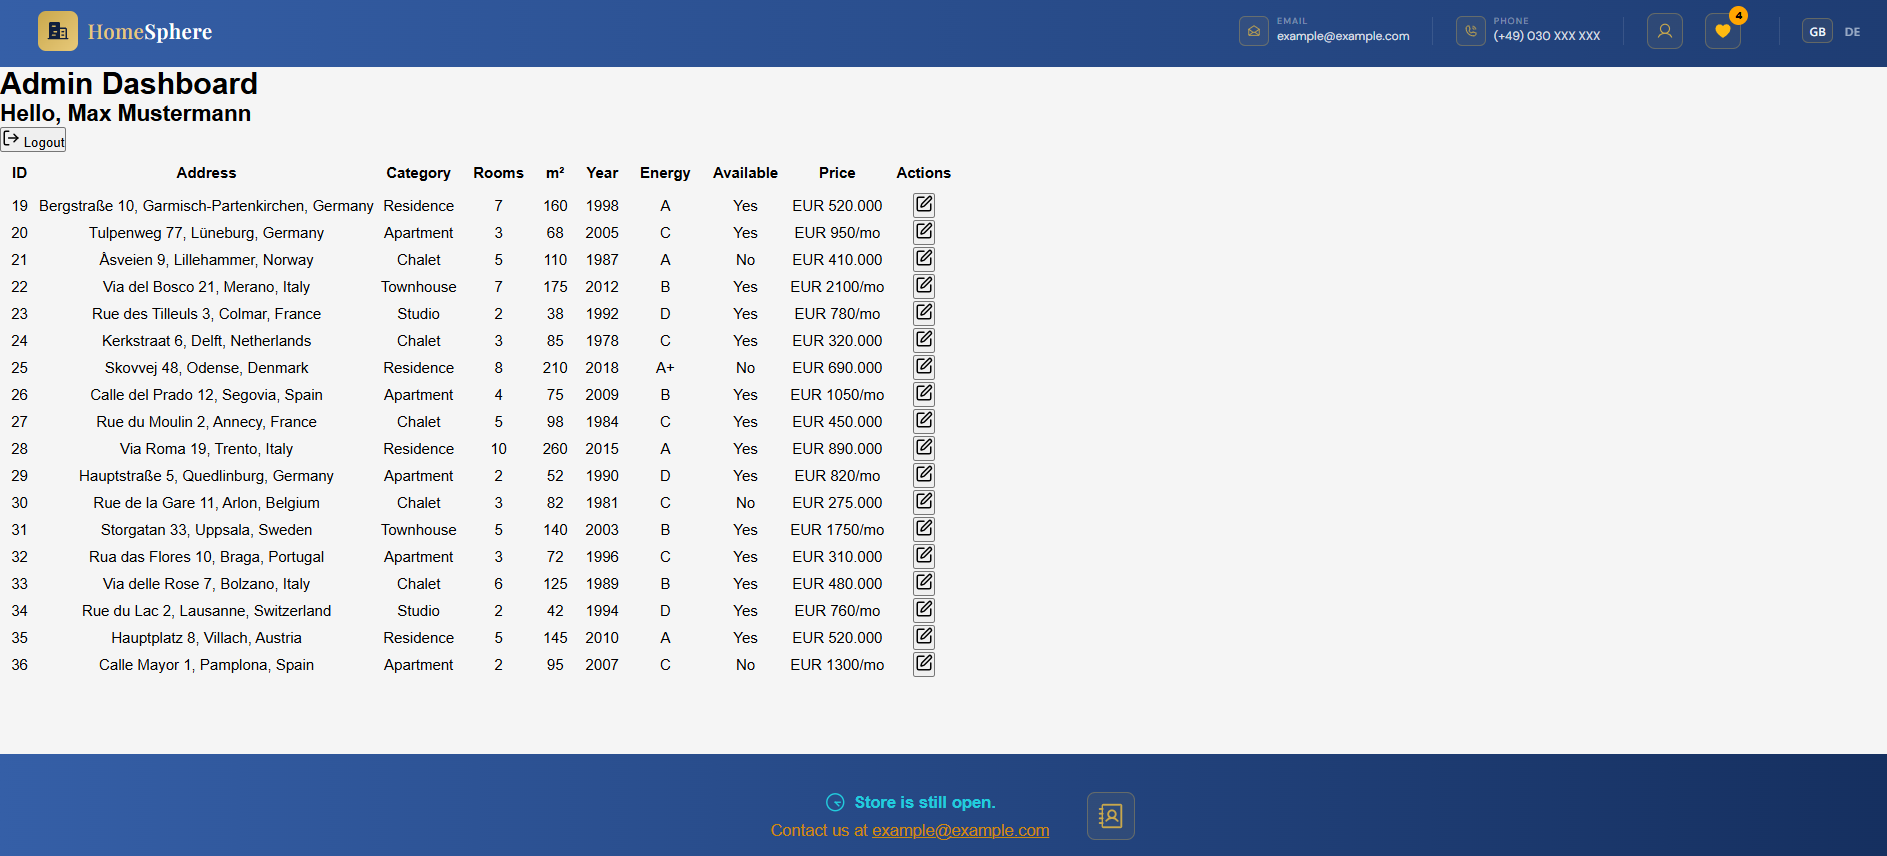
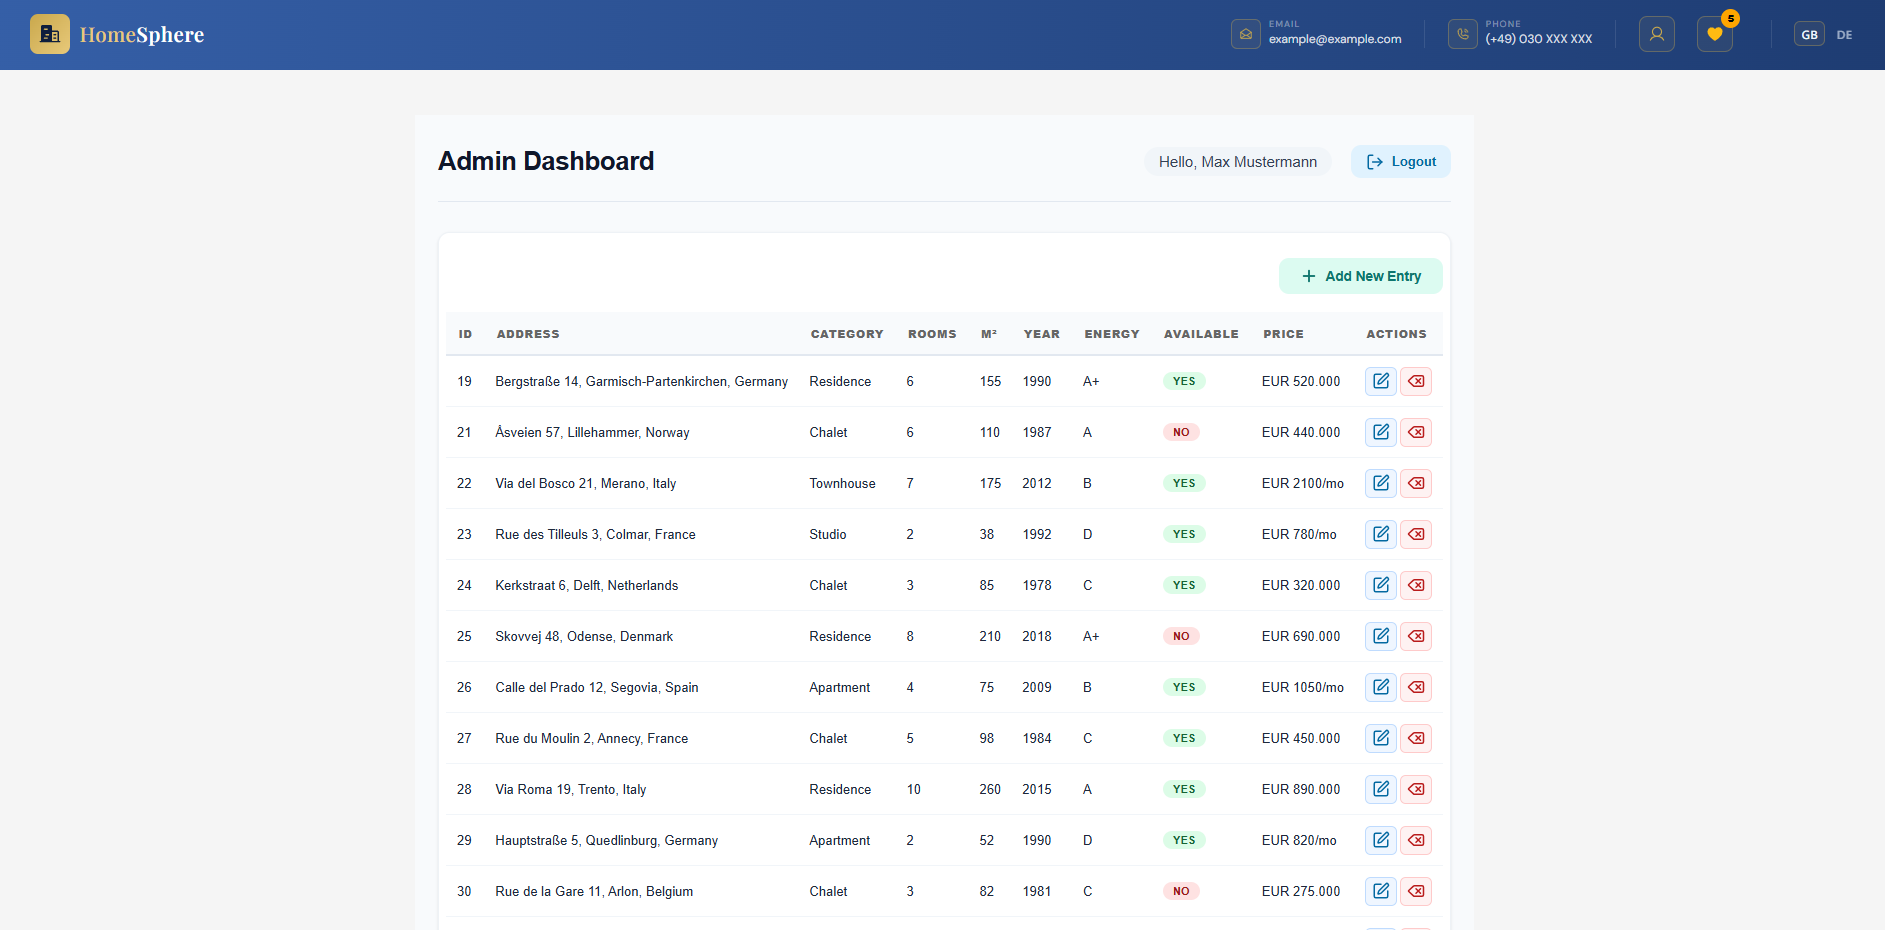
update README

diff --git a/README.md b/README.md
@@ -15,7 +15,7 @@
 
 🔗 [Live Demo](https://homesphere-web.vercel.app)
 
-HomeSphere is a full-stack real estate platform for property seekers and administrators. Browse listings across Europe, filter by category and deal type, save favorites, and contact agents via email. Admins can manage the entire property catalog through a protected dashboard.
+HomeSphere is a full-stack real estate platform for property seekers and administrators. Browse listings across Europe, filter by category and deal type, save favorites, and contact agents via email. Admins can manage the entire property catalog through a protected dashboard. An advanced search enables combined filtering across key property attributes for fast, precise results.
 
 **Tech Stack:** React frontend with a Node.js/Express REST API, PostgreSQL on Supabase, Resend for emails, and react‑i18next for multilingual support (EN/DE).
 
@@ -23,13 +23,15 @@ Built with **security**, **performance**, and **user experience** in mind – fe
 
 ## Screenshots
 
-|                                                                                  |                                                                               |
-| -------------------------------------------------------------------------------- | ----------------------------------------------------------------------------- |
-| ![Home](client/public/screenshots/home.png)<br>_Home Page_                       | ![Main](client/public/screenshots/main.png)<br>_Main Listings_                |
-| ![Footer](client/public/screenshots/footer.png)<br>_Footer_                      | ![Details](client/public/screenshots/details.png)<br>_Property Details_       |
-| ![Contact Form](client/public/screenshots/contact-form.png)<br>_Contact Form_    | ![Favorites](client/public/screenshots/favorites-page.png)<br>_Favorites_     |
-| ![Calculator](client/public/screenshots/calculator.png)<br>_Mortgage Calculator_ | ![Contact Page](client/public/screenshots/contact-page.png)<br>_Contact Page_ |
-| ![Login](client/public/screenshots/login-page.png)<br>_Login_                    | ![Admin](client/public/screenshots/admin-page.png)<br>_Admin Dashboard_       |
+|                                                                                          |                                                                                    |
+| ---------------------------------------------------------------------------------------- | ---------------------------------------------------------------------------------- |
+| ![Home](client/public/screenshots/home.png)<br>_Home Page with Advanced Filter_          | ![Main](client/public/screenshots/main.png)<br>_Main Listings_                     |
+| ![Footer](client/public/screenshots/footer.png)<br>_Footer_                              | ![Details](client/public/screenshots/details.png)<br>_Property Details_            |
+| ![Contact Form](client/public/screenshots/contact-form.png)<br>_Contact Form_            | ![Favorites](client/public/screenshots/favorites-page.png)<br>_Favorites_          |
+| ![Calculator](client/public/screenshots/calculator.png)<br>_Mortgage Calculator_         | ![Contact Page](client/public/screenshots/contact-page.png)<br>_Contact Page_      |
+| ![Login](client/public/screenshots/login-page.png)<br>_Login_                            | ![Admin](client/public/screenshots/admin-page.png)<br>_Admin Dashboard_            |
+| ![Add Entry](client/public/screenshots/add-new-entry-modal.png)<br>_Add New Entry Modal_ | ![Edit Entry](client/public/screenshots/edit-entry-modal.png)<br>_Add Entry Modal_ |
+| ![Delete Entry](client/public/screenshots/delete-entry-modal.png)<br>_Delete Entry_      |                                                                                    |
 
 ---
 
@@ -55,17 +57,22 @@ Built with **security**, **performance**, and **user experience** in mind – fe
 - Property listings fetched from PostgreSQL database via REST API
 - Filter by category (Apartment, Chalet, Residence, Studio, Townhouse)
 - Filter by deal type (Rent / Buy)
+- Advanced Search with multi‑criteria filtering for precise property discovery
 - Detail page with full property info, stats, and interactive map
 - Mortgage calculator on property detail pages
 - Photo upload directly in the admin dashboard, stored in Supabase Storage
+- Pagination for property listings
+- Confirmation modal before deleting a property
 
 ### Authentication & Security
 
 - **Supabase Authentication** with JWT-based session management
 - **Protected admin routes** with token validation middleware
 - **Server-side token verification** using Supabase Admin Client
+- **Server-side request validation** with Zod schemas (entries, contact form, and `:id` route params) — invalid requests return 400 with field-level error details
+- **Security headers** via Helmet
 - Environment-based configuration for dev/prod
-- Rate limiting on contact endpoint (3 requests per 10 minutes)
+- Rate limiting on contact endpoint (3 requests per 10 minutes) and admin endpoints (100 requests per 15 minutes)
 
 ### User Experience & User Interface (UX/UI)
 
@@ -75,10 +82,14 @@ Built with **security**, **performance**, and **user experience** in mind – fe
 - Loading and error states for all API calls
 - Multi-language support (EN/DE) with react-i18next
 - Favorites system with localStorage persistence
+- Accessibility: keyboard-navigable property cards, ARIA labels on interactive controls, visible focus states
+- Custom 404 page for unmatched routes
 
 ### Performance
 
 - Optimised images with lazy loading and WebP support
+- Uploaded photos are automatically resized (max 1200px) and re-encoded as WebP (quality 80) via Sharp before storage
+- One-off `optimize-photos.js` script to compress existing property photos in bulk
 - Custom `useFetch` hook for efficient data fetching
 - Memoized components to prevent unnecessary re-renders
 
@@ -87,9 +98,8 @@ Built with **security**, **performance**, and **user experience** in mind – fe
 - Modular component structure for easy maintenance
 - Centralised API configuration
 - Testing with Vitest + React Testing Library + Supertest
+- CI workflow (`.github/workflows/ci.yml`) runs lint + tests for client and server on every push/PR to `main`
 - Separate deployments (Vercel for frontend, Render for API)
-
----
 
 ## Tech Stack
 
@@ -102,7 +112,8 @@ Built with **security**, **performance**, and **user experience** in mind – fe
 |              | Yup                            | 1       |
 |              | Vite                           | 8       |
 |              | CSS Custom Properties          |         |
-|              | react-i18next                  | 15      |
+|              | react-i18next                  | 17      |
+|              | i18next                        | 26      |
 |              | Leaflet + react-leaflet        | 1 / 4   |
 |              | Vitest + React Testing Library | 4 / 16  |
 |              | Framer Motion                  | 12      |
@@ -114,6 +125,9 @@ Built with **security**, **performance**, and **user experience** in mind – fe
 |              | express-rate-limit             | 7       |
 |              | he(XSS sanitization)           | 1       |
 |              | multer (file uploads)          | 2       |
+|              | sharp (image processing)       | 0.35    |
+|              | zod (validation)               | 4       |
+|              | helmet (security headers)      | 8       |
 |              | Resend                         | 6       |
 |              | @supabase/supabase-js          | 2       |
 |              | Vitest + Supertest             | 4 / 7   |
@@ -202,11 +216,12 @@ homesphere/
 │   │    │   ├── Navbar/
 │   │    │   ├── Heading/
 │   │    │   ├── Footer/
-│   │    │   ├── Loadingspinner/            # Spinner for loading time
+│   │    │   ├── LoadingSpinner/            # Spinner for loading time
 │   │    │   ├── MapModal/                  # Leaflet map modal with Nominatim
 │   │    │   ├── ContactForm/               # Multi-step modal with Yup validation
 │   │    │   ├── MortgageCalculator/        # Monthly payment calculator with useMemo
 │   │    │   ├── ProtectedRoute/            # Protect routes from unauthorized access
+│   │    │   ├── ConfirmModal/              # Reusable confirm dialog (e.g. delete confirmation)
 │   │    │   └── Main/
 │   │    │       ├── RealEstate.jsx         # Filter logic + listings
 │   │    │       └── RealEstateCard/
@@ -228,7 +243,12 @@ homesphere/
     ├── server.js                           # Express server & routes
     ├── server.start.js                     # Entry point – starts the Express server
     ├── server.test.js                      # Backend integration tests (Supertest)
-    ├── vitest.connfig.js                   # Vitest config for server
+    ├── vitest.config.js                    # Vitest config for server
+    ├── validation.js                       # Zod schemas (entries, contact, :id params)
+    ├── middleware/
+    │   └── validate.js                     # Express middleware applying Zod schemas
+    ├── scripts/
+    │   └── optimize-photos.js              # Bulk-compress existing property photos
     ├── schema.sql                          # Database table definition
     ├── seed.sql                            # Initial data (entries)
     ├── .env
@@ -259,8 +279,16 @@ POST   https://homesphere-kifc.onrender.com/api/upload
 ```
 
 `POST /api/upload` accepts a single image file (`multipart/form-data`, field
-name `photo`, max 5 MB) via Multer, forwards it to a Supabase Storage bucket,
+name `photo`, max 5 MB) via Multer, resizes it (max 1200px) and re-encodes it
+as WebP (quality 80) via Sharp, forwards it to a Supabase Storage bucket,
 and returns its public URL for use as a property's `photo` field.
+
+### Request Validation
+
+`POST`/`PUT /api/entries` and `POST /api/contact` validate the request body
+against [Zod](https://zod.dev) schemas (`server/validation.js`); `:id` route
+params are validated as positive integers. Invalid requests return `400`
+with field-level error details instead of reaching the database.
 
 ---
 
@@ -290,6 +318,13 @@ The application uses **Supabase Authentication** with JWT-based session manageme
 - Environment variables: `DATABASE_URL`, `RESEND_API_KEY`, `CONTACT_EMAIL`, `SUPABASE_URL`, `SUPABASE_SECRET_KEY`, `SUPABASE_STORAGE_BUCKET`
 - Rate limiting: 3 requests/10min for contact endpoint
 - Admin endpoint protected with Supabase Auth middleware
+
+### Continuous Integration
+
+A GitHub Actions workflow (`.github/workflows/ci.yml`) runs on every push and
+pull request to `main`: it installs dependencies, lints the client, and runs
+the client and server test suites. This is separate from the keep-alive
+workflow below.
 
 ### Keep-Alive / Cold-Start Prevention
 
@@ -472,8 +507,16 @@ npm run test:run  # run once
 - [x] Protected admin routes with Supabase middlewar
 - [x] Photo upload via Supabase Storage in the admin dashboard
 - [x] Custom 404 page for unmatched routes
+- [x] Pagination for property listings
+- [x] Server-side request validation with Zod schemas
+- [x] Security headers via Helmet
+- [x] Accessibility improvements: keyboard navigation, ARIA labels, focus states
+- [x] Custom delete-confirmation modal (replacing native `window.confirm()`)
+- [x] CI workflow for automated linting and testing (`.github/workflows/ci.yml`)
+- [x] Automatic photo resizing/compression on upload + bulk optimization script
+- [x] Advanced search - Price, rooms, size, combined filters
 
 ### Next Steps
 
-- [ ] Advanced search - Price, rooms, size, combined filters
 - [ ] More SEO improvements
+- [ ] Store Contact Email Inquiries in DB
